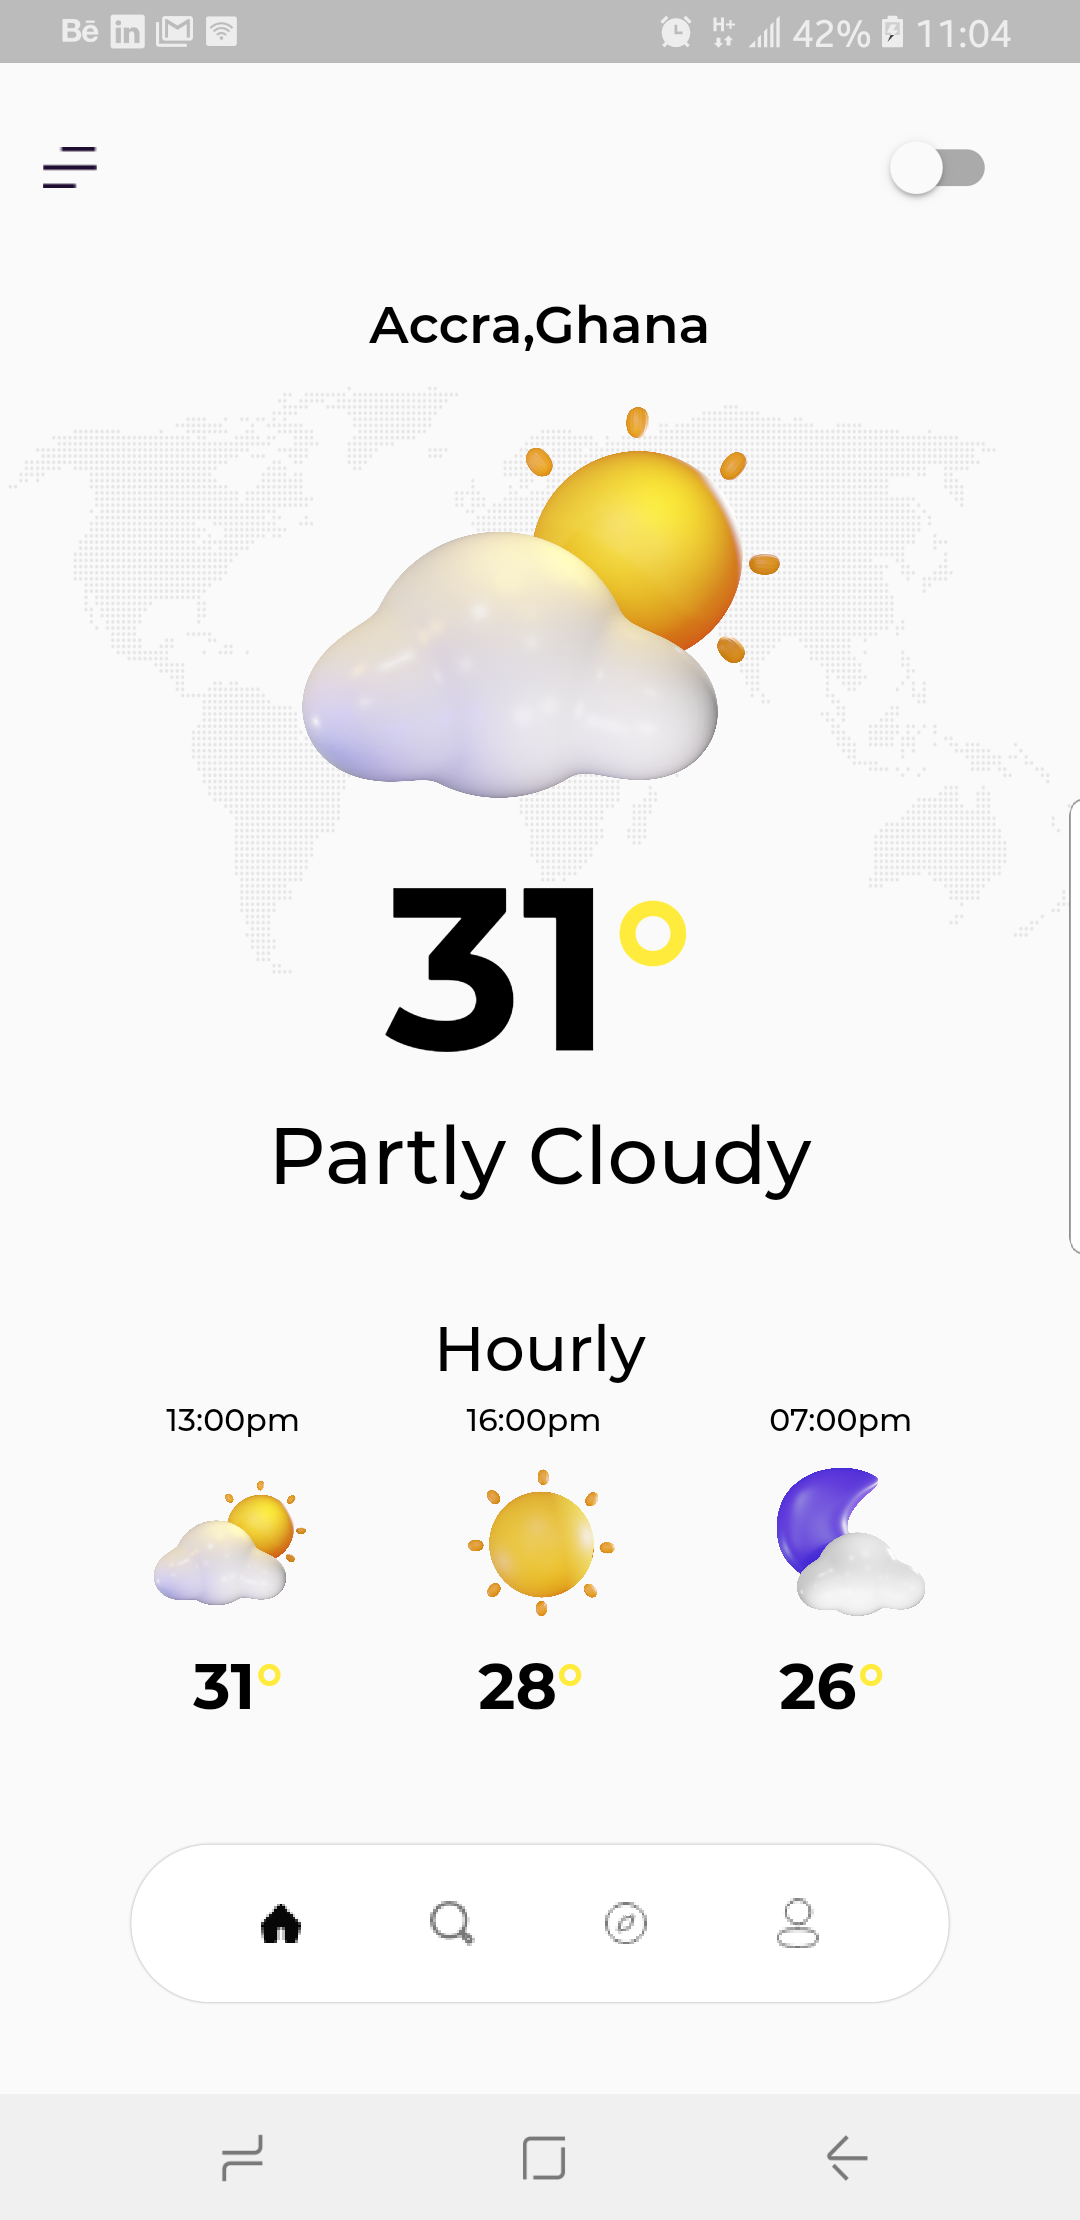
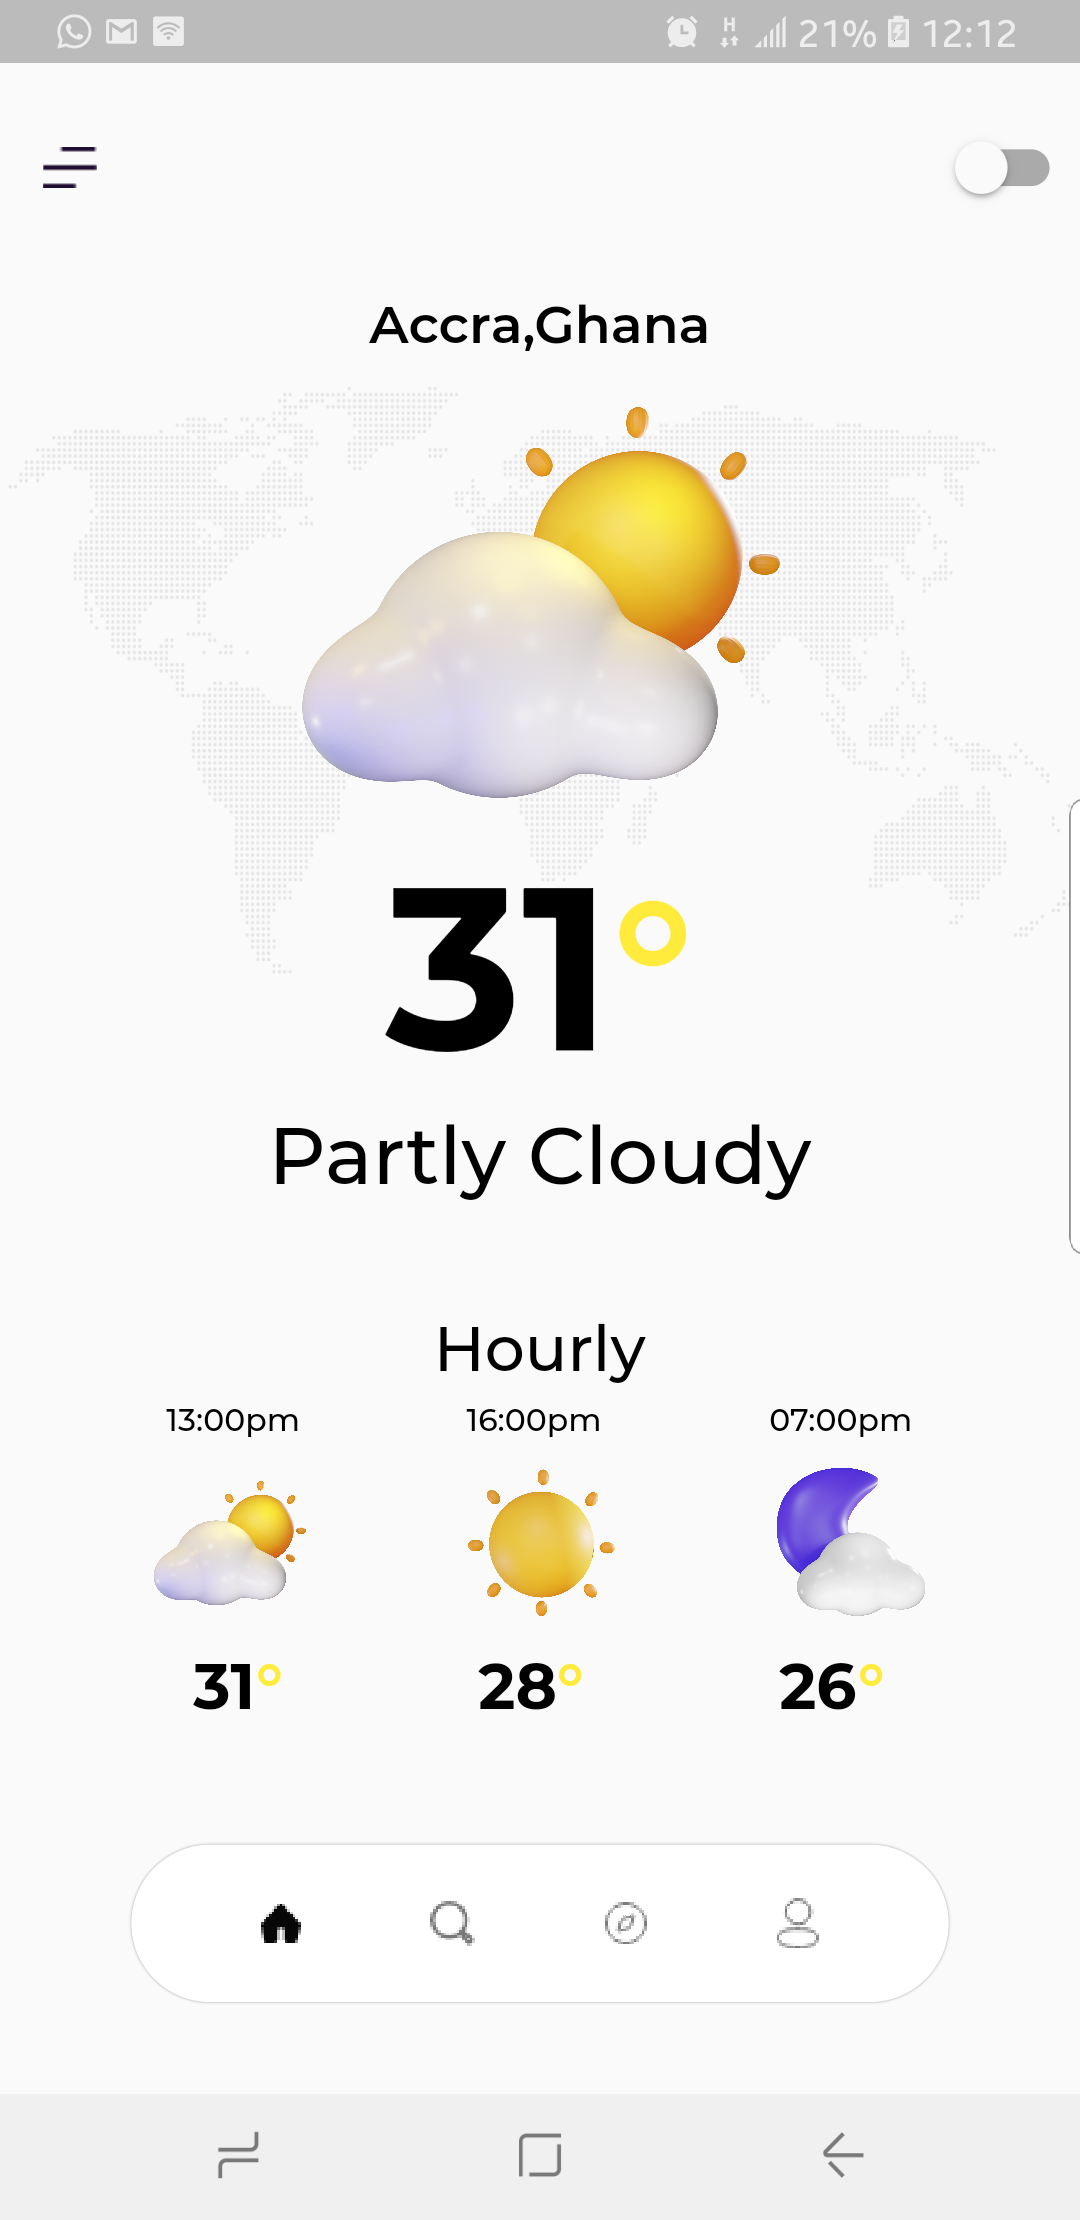
.....Readme

diff --git a/lib/screens/home.dart b/lib/screens/home.dart
@@ -66,7 +66,7 @@ class _HomeScreenState extends State<HomeScreen> {
             ),
             Positioned(
               top: SizeConfig.blockSizeVertical * 1,
-              left: SizeConfig.blockSizeHorizontal * 80,
+              left: SizeConfig.blockSizeHorizontal * 86,
               child: Container(
                 padding: EdgeInsets.only(top: SizeConfig.blockSizeVertical * 4),
                 child: Switch(
